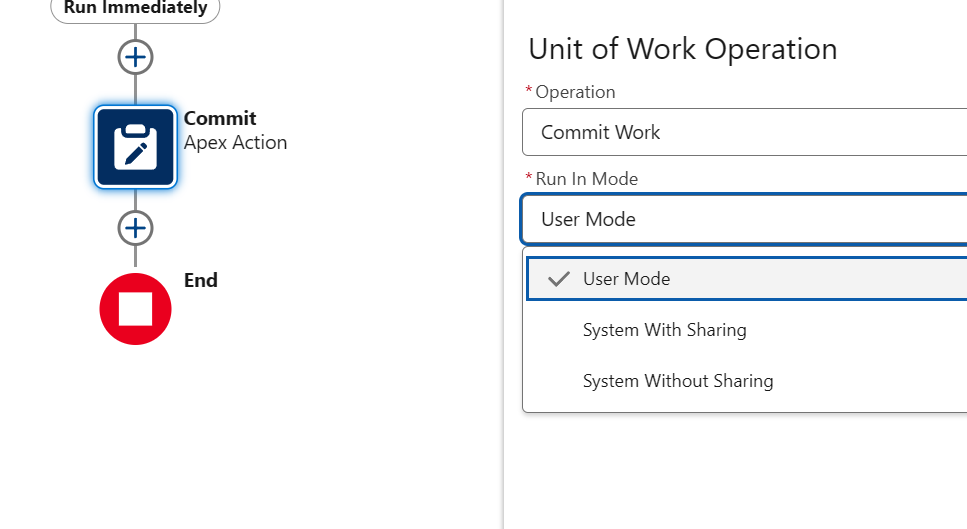
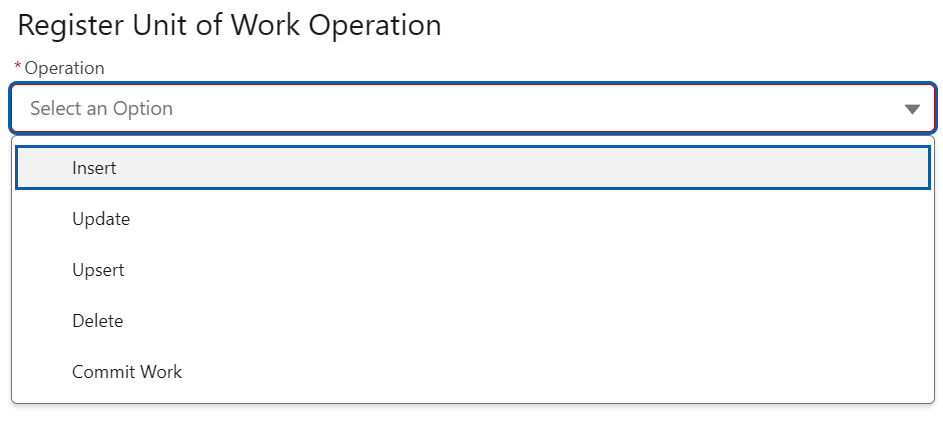
Unit of Work for Flows - Fixed Insert Issue and improved docs

diff --git a/docs/content/apex/database-service.md b/docs/content/apex/database-service.md
@@ -3,8 +3,8 @@
 sharing context in runtime.*
 
 [Source](https://github.com/pkozuchowski/Apex-Opensource-Library/tree/master/force-app/commons/database)
-[Install In Sandbox](https://test.salesforce.com/packaging/installPackage.apexp?p0=04tJ6000000Li0ZIAS)
-[Install In Production](https://login.salesforce.com/packaging/installPackage.apexp?p0=04tJ6000000Li0ZIAS)
+[Install In Sandbox](https://test.salesforce.com/packaging/installPackage.apexp?p0=04tJ6000000Li8zIAC)
+[Install In Production](https://login.salesforce.com/packaging/installPackage.apexp?p0=04tJ6000000Li8zIAC)
 
 ```bash
 sf project deploy start -d "force-app/commons/database" -o sfdxOrg
@@ -275,30 +275,52 @@ all operations are rolled back.
 ---
 # UoW Invocable
 
-Unit of Work now features an Invocable Action that can be used in Flows to register DMLs.
+## Invocable Action for Flows
 
-This action allows you to register DML operations in various Flows, which will be executed at the end of the Flow when Commit is called.
-By using this action, you can ensure that the updated to the same record, performed in different flows,
-will be registered as a single update operation, with all modified fields updated.
+The **Unit of Work** feature now includes an **Invocable Action** that enables the registration of DML operations within Flows. This enhancement allows DMLs to
+be queued throughout various parts of a Flow and executed collectively when the `Commit` operation is invoked.
+
+By leveraging this action, updates to the same record—across multiple Flows—are consolidated into a single DML operation, ensuring all field changes are applied
+in one atomic transaction.
+
+## Key Guidelines
+
+- Always invoke the `Commit` operation at the end of the flow, or in case of Record-Triggered flows as the last Flow, to ensure all registered DMLs are
+  executed.
+- After `Commit` is called, any new DML operations will be tracked in a new Unit of Work instance.
+- Commit Action can be configured to run in User Mode, System With Sharing or System Without Sharing mode. Flow's Run Mode is ignored.
+
+## How to Use
+
+1. **Create a Record Variable**  
+   Define a new Flow variable of type **Record** and use an **Assignment** element to set the fields you want to update.
+
+2. **Register the DML Operation**  
+   Add the **Database Unit of Work Operation** action to your Flow. Specify the desired DML operation and pass in the input record variable.
+
+3. **Invoke Commit**  
+   Create a separate **Record-Triggered Flow** (configured to run last) and include the **Commit** action to finalize the DML execution.
+
+## Important Notes
+
+- The Unit of Work mechanism attempts to **deduplicate** record operations using record Id or Upsert Field. If the same record is updated in multiple places, it
+  will be registered as a single update with all modified fields.
+- To avoid unintended overwrites, ensure that only the fields with actual changes are included in the **Assignment** element.
+- DML operations are executed in the order they are registered, following the same rules as the `DatabaseUnitOfWork` class.
+
+## Roadmap
+- Support for "**Relate**" method and adding parent records directly in insert/upsert/update operation.
+  When a parent record is provided, parent is inserted first, and then child records are inserted with the lookup field populated.
+- Support for setting fields directly in the action, instead of using a Record variable and Assignment element.
+- Support for **Discard Work** action to clear all registered DMLs without executing them.
 
 ![db-uow-flow-1.png](/img/db-uow-flow-1.png)
 ![db-uow-flow-2.png](/img/db-uow-flow-2.png)
-
-Commit should be called at the end of the flow, to ensure all DMLs are executed.
 ![db-uow-flow-3.png](/img/db-uow-flow-3.png)
+![db-uow-flow-3.png](/img/db-uow-flow-4.png)
+![db-uow-flow-3.png](/img/db-uow-flow-5.png)
 
-When commit is called, all new operations will be registered in new Unit of Work instance.
 
-
-## How to Use:
-1. Create a new Flow variable of **Record** type and set the fields you intend to modify using an Assignment element.
-2. Add the **Database Unit of Work** action to your Flow. Specify operation and input record variable.
-3. Add new Record-Triggered Flow to be executed last and put Commit operation there.
-
-## Note
-Unit of Work will try to deduplicate records, so if you update the same record in multiple places,
-it will register as 1 update on 1 record with all provided fields.
-Therefore, it's important to only update fields that are actually changed.
 
 
 ---
